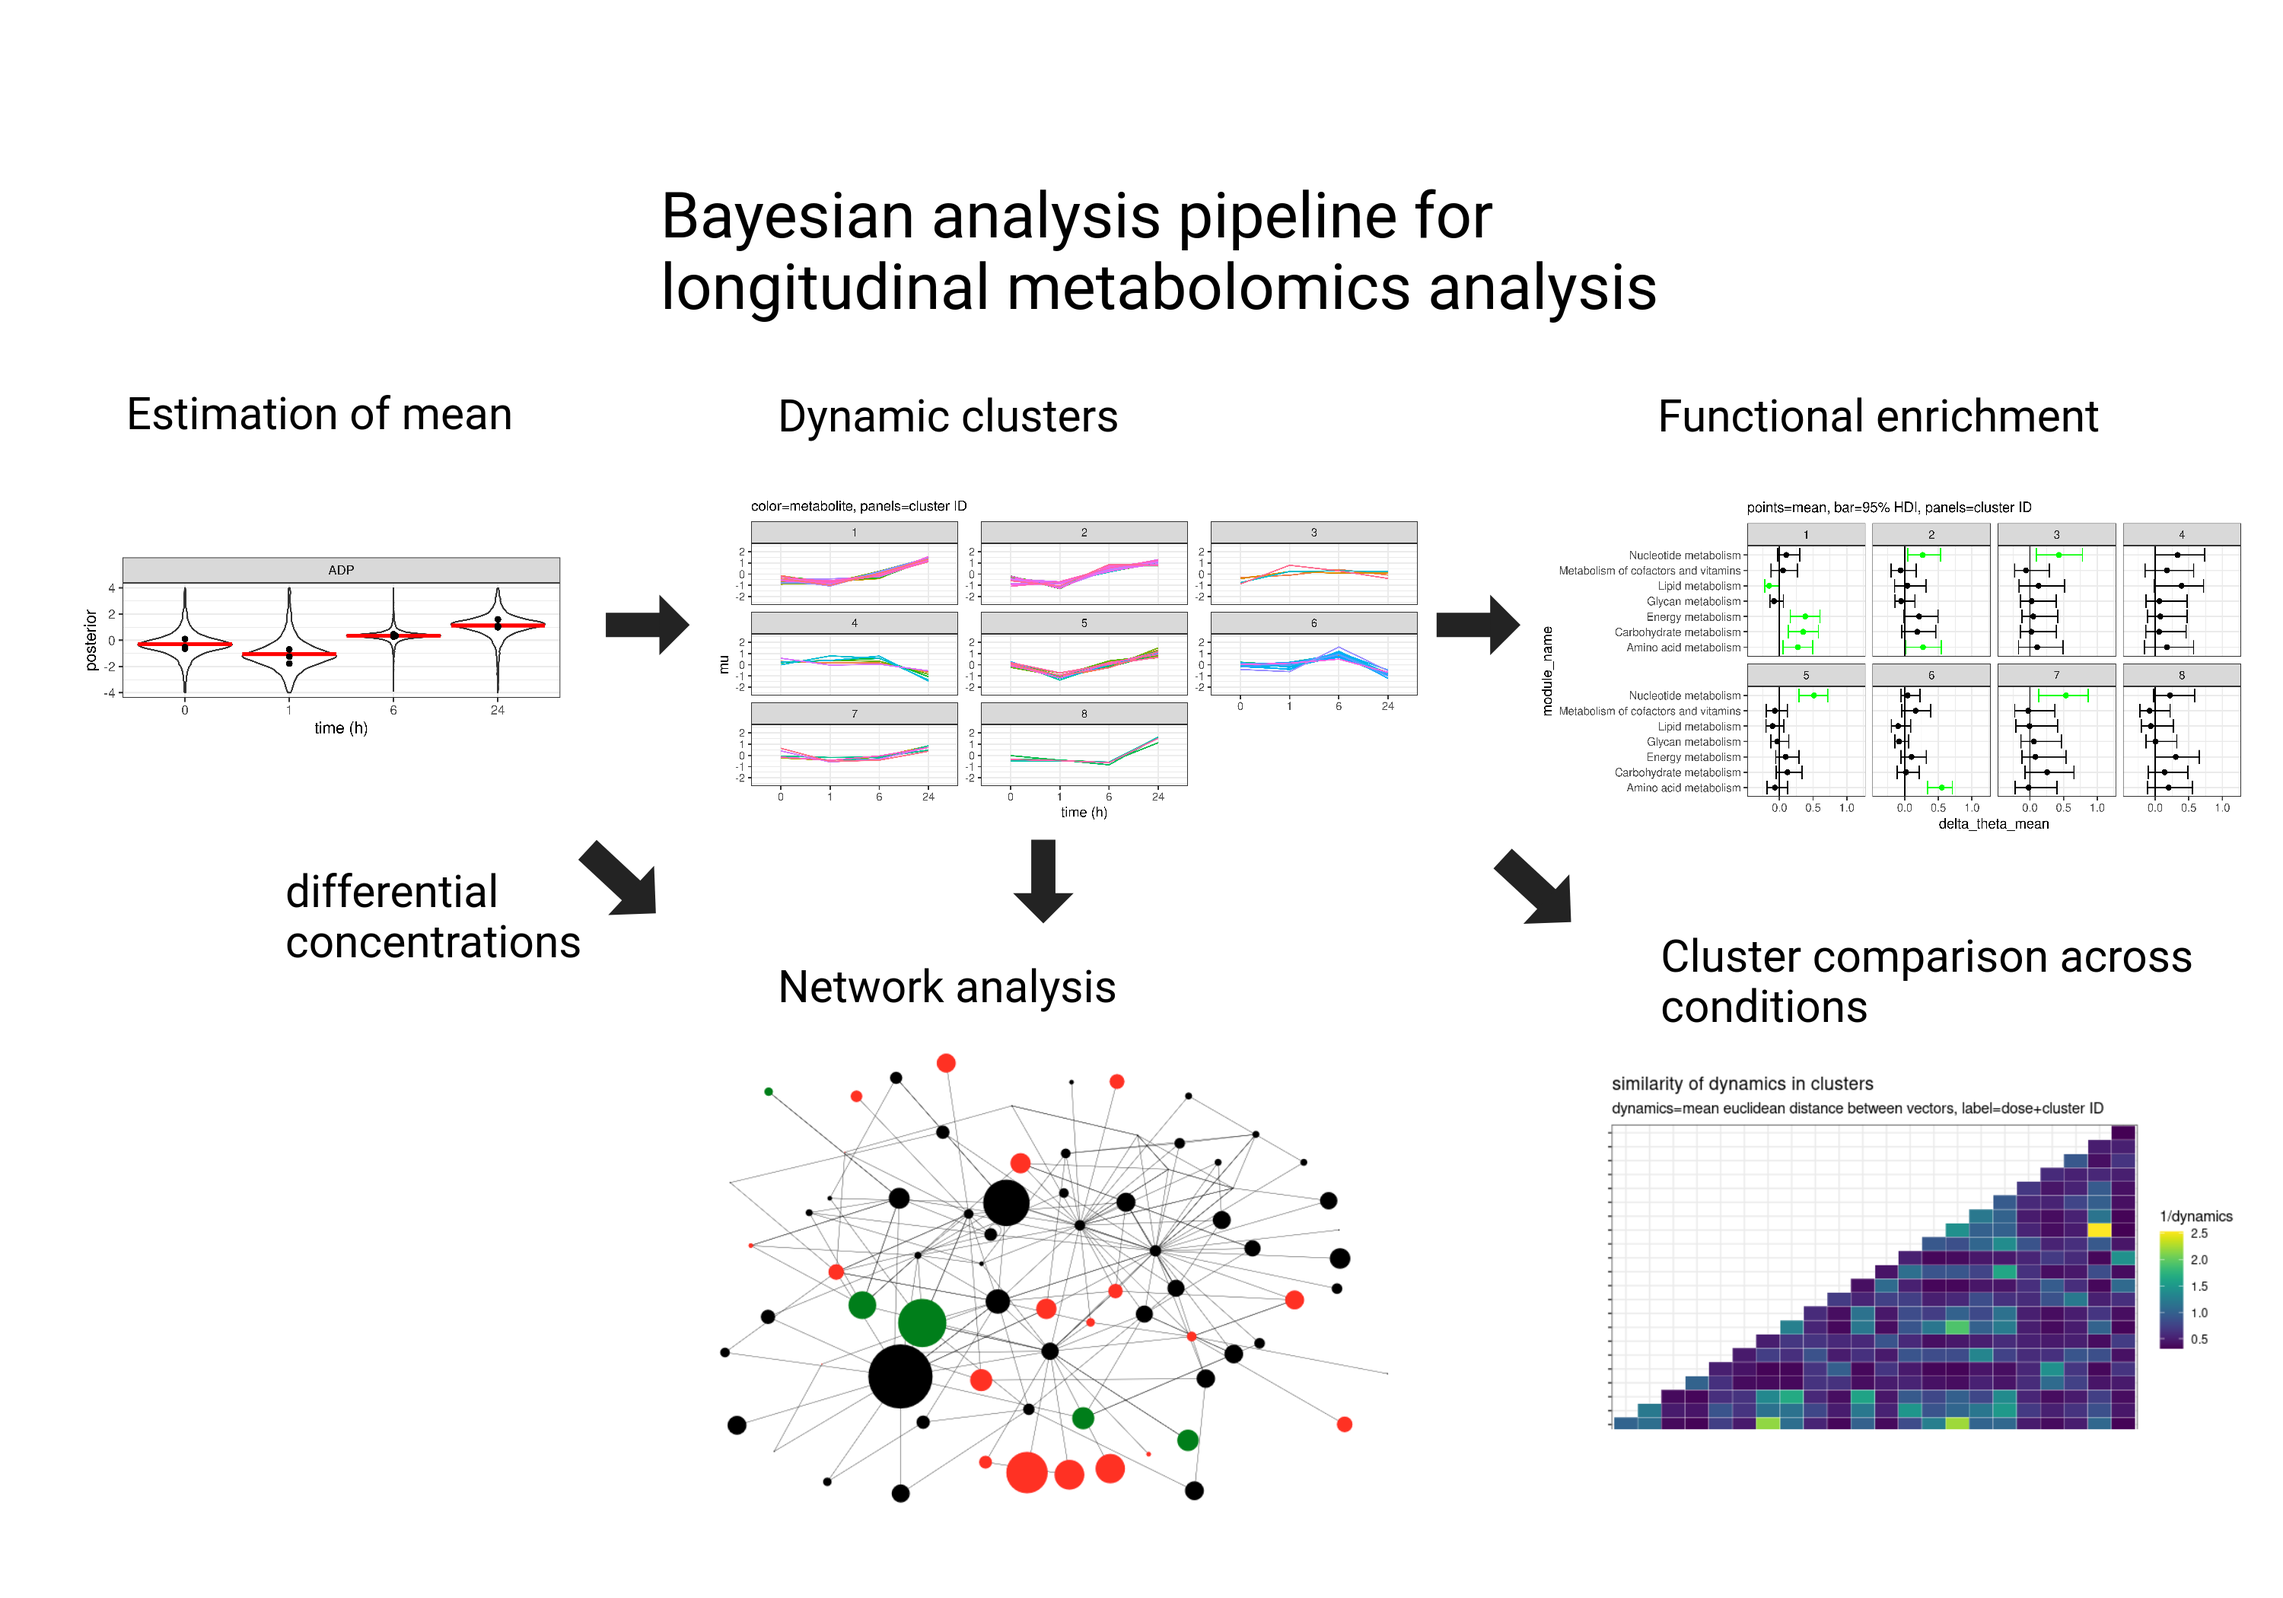
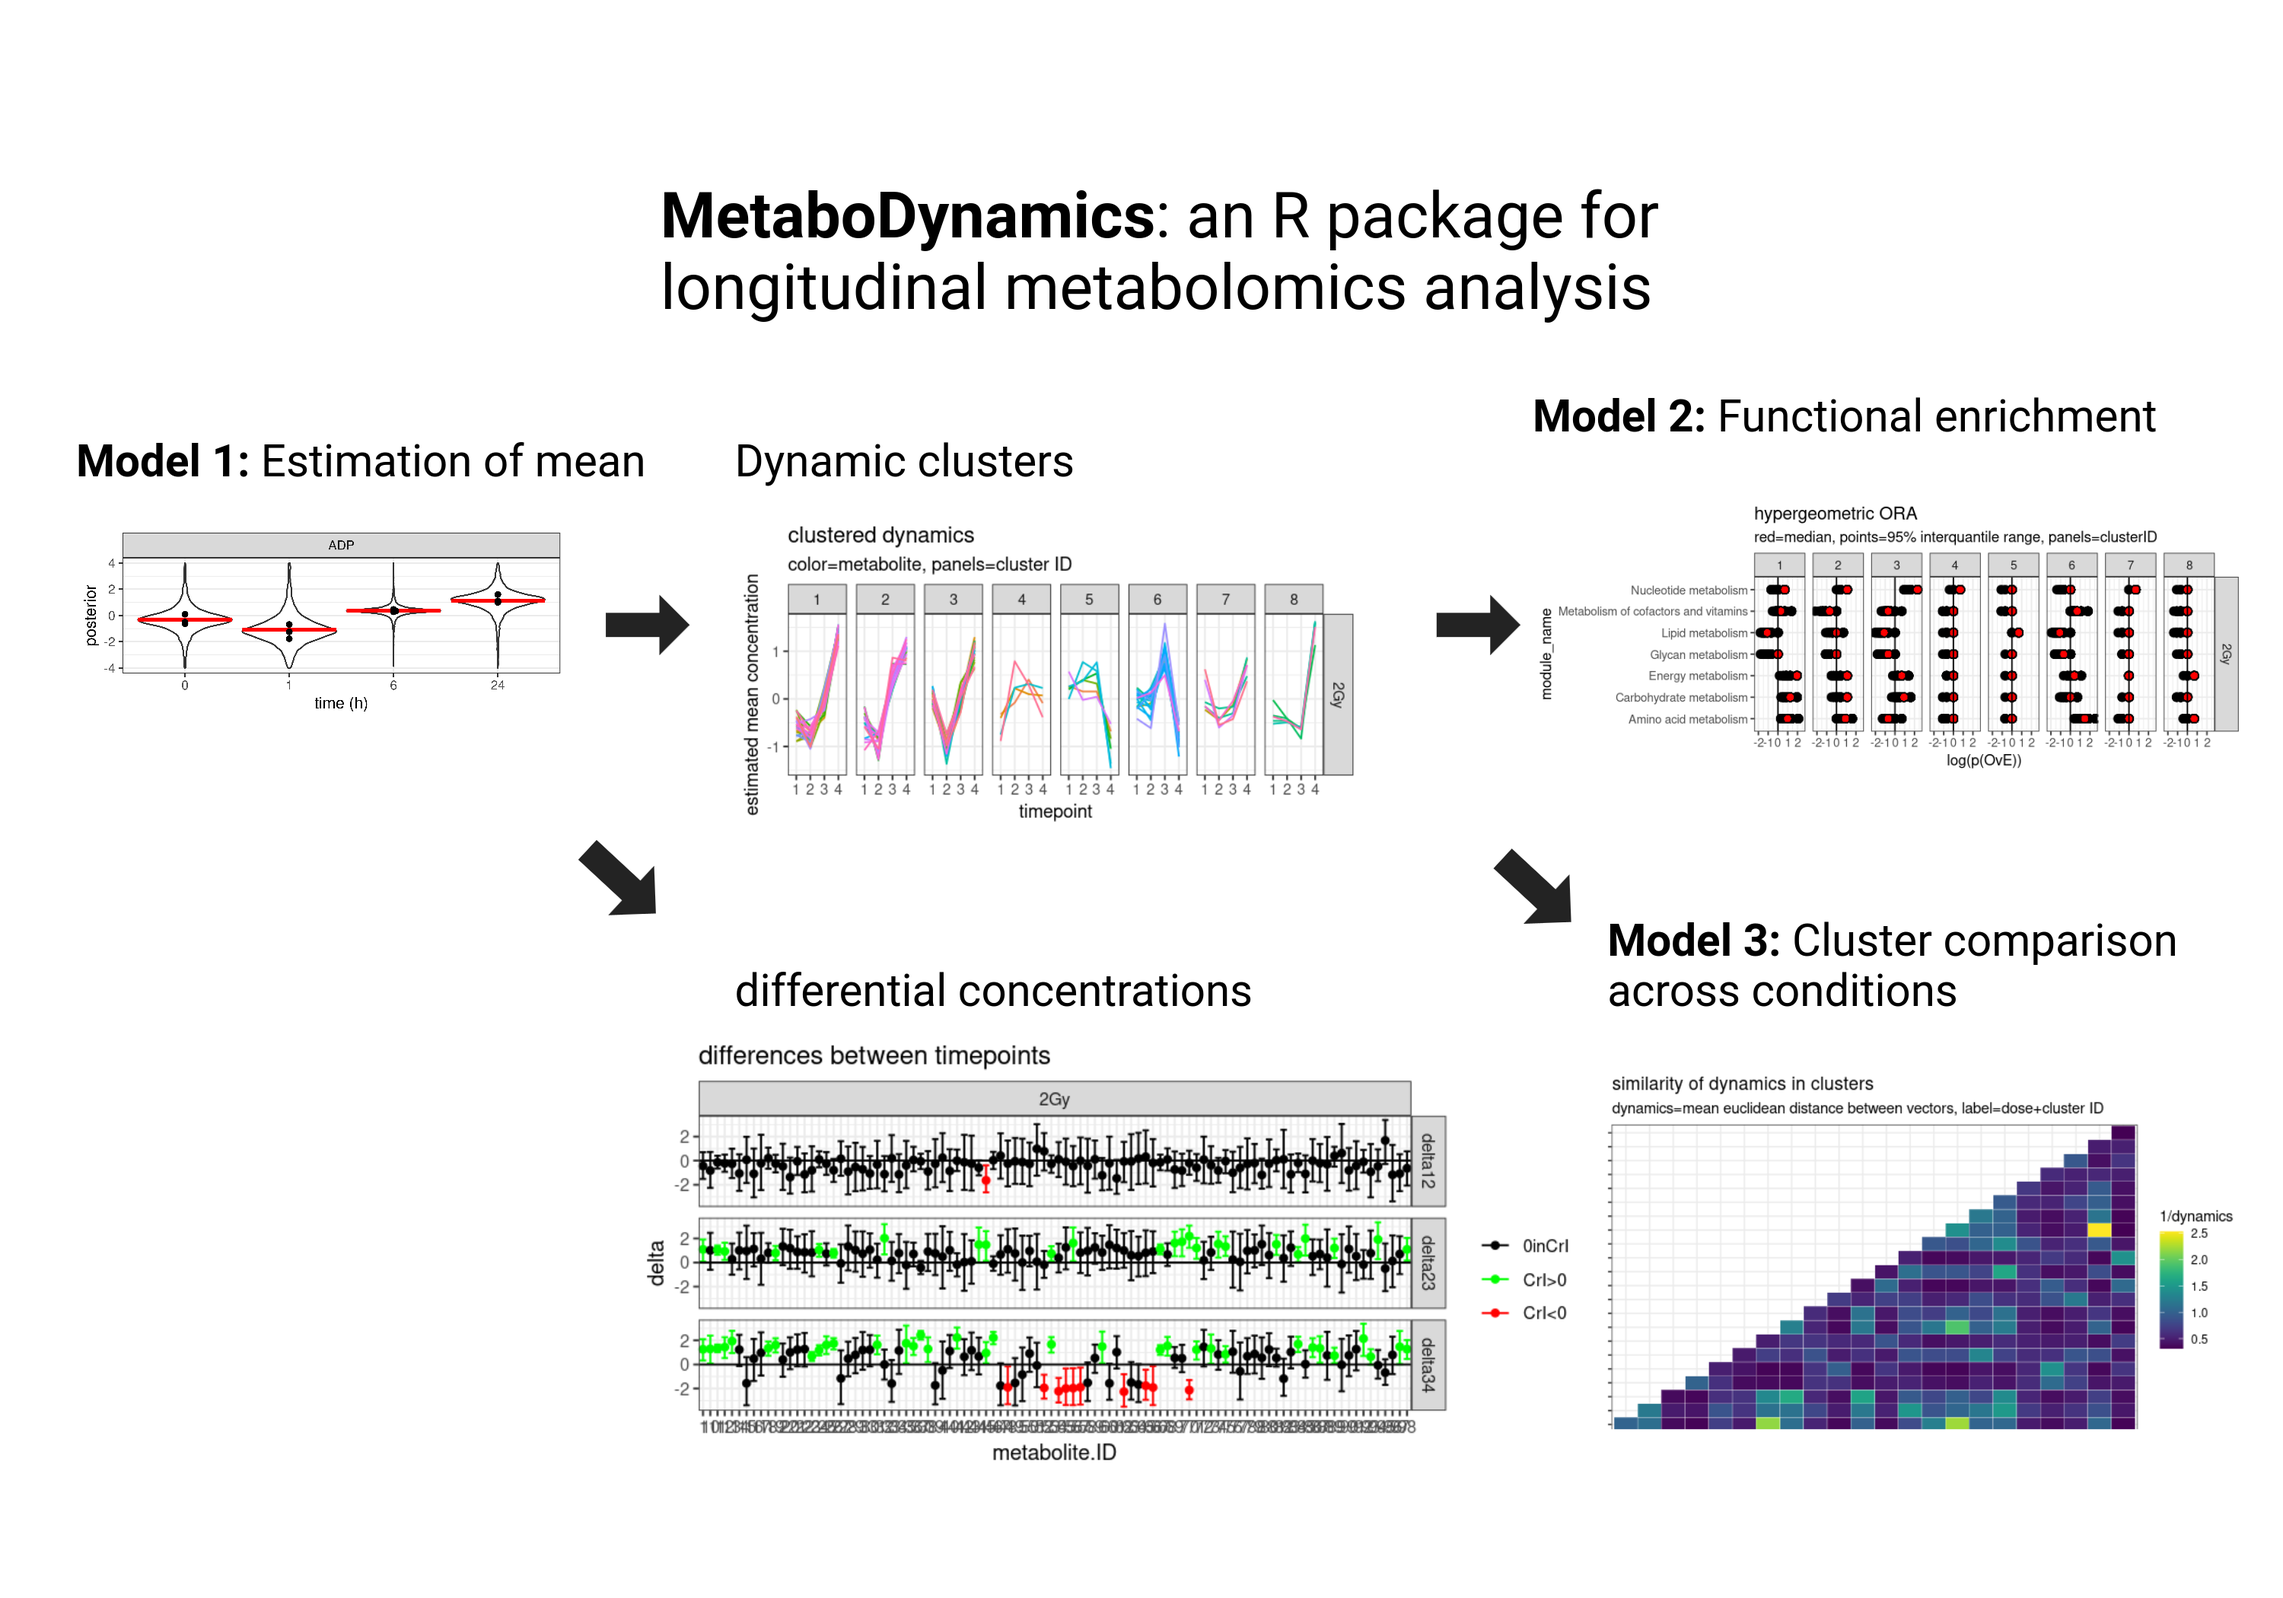
README workflow updated

diff --git a/README.md b/README.md
@@ -31,7 +31,7 @@ statistical methods. As metabolomics data is often noise robust methods
 for the estimation of dynamics are needed. We employ a hierachical
 Bayesian model for that.
 
-## Workflow draft: Network analysis not included yet
+## Workflow
 
 <figure>
 <img src="/man/figures/README-metabolomics_pitch_draft.png"
